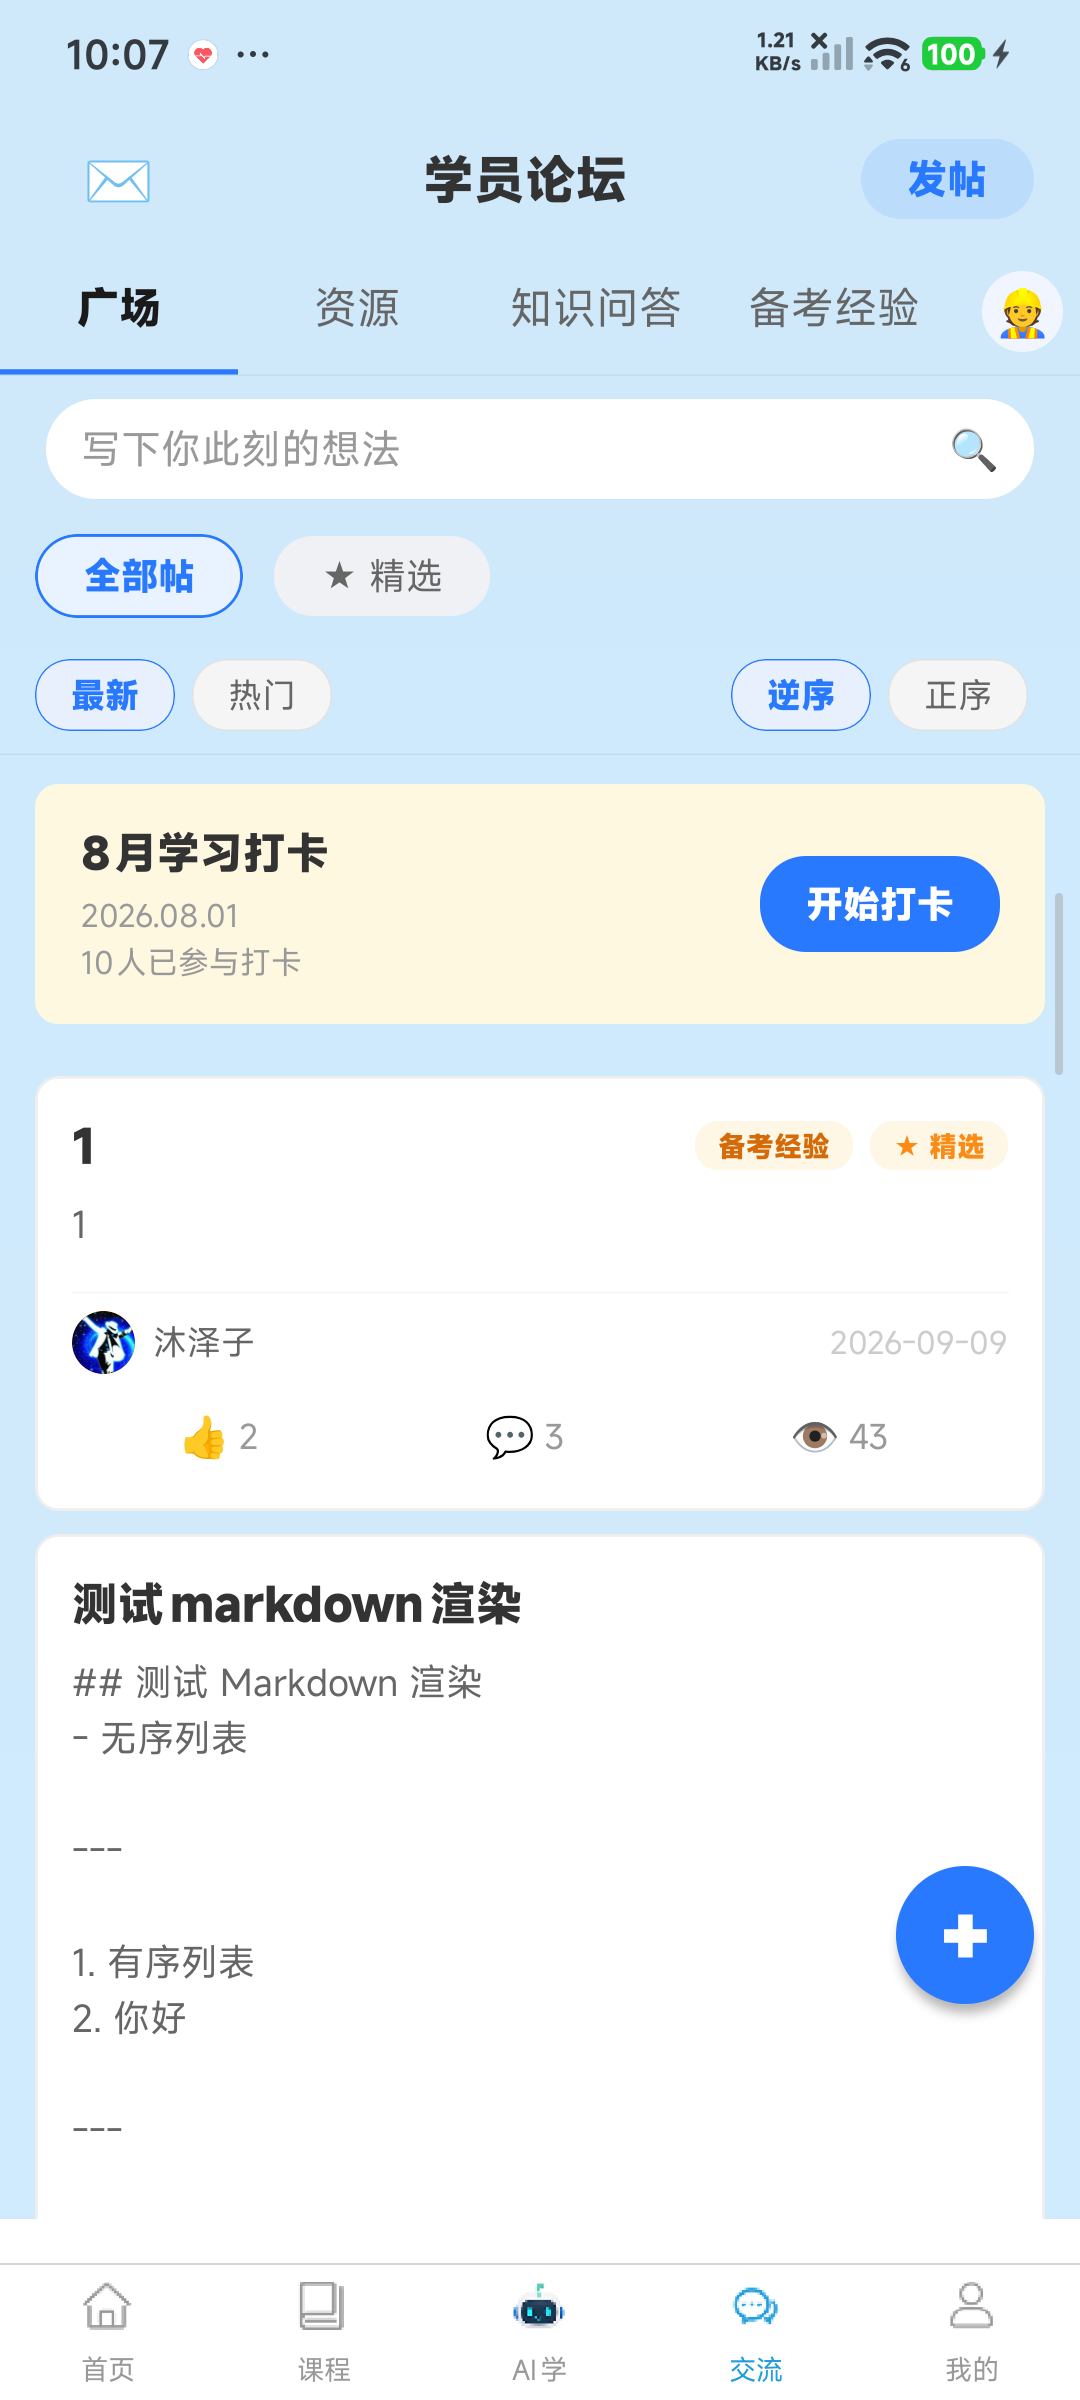
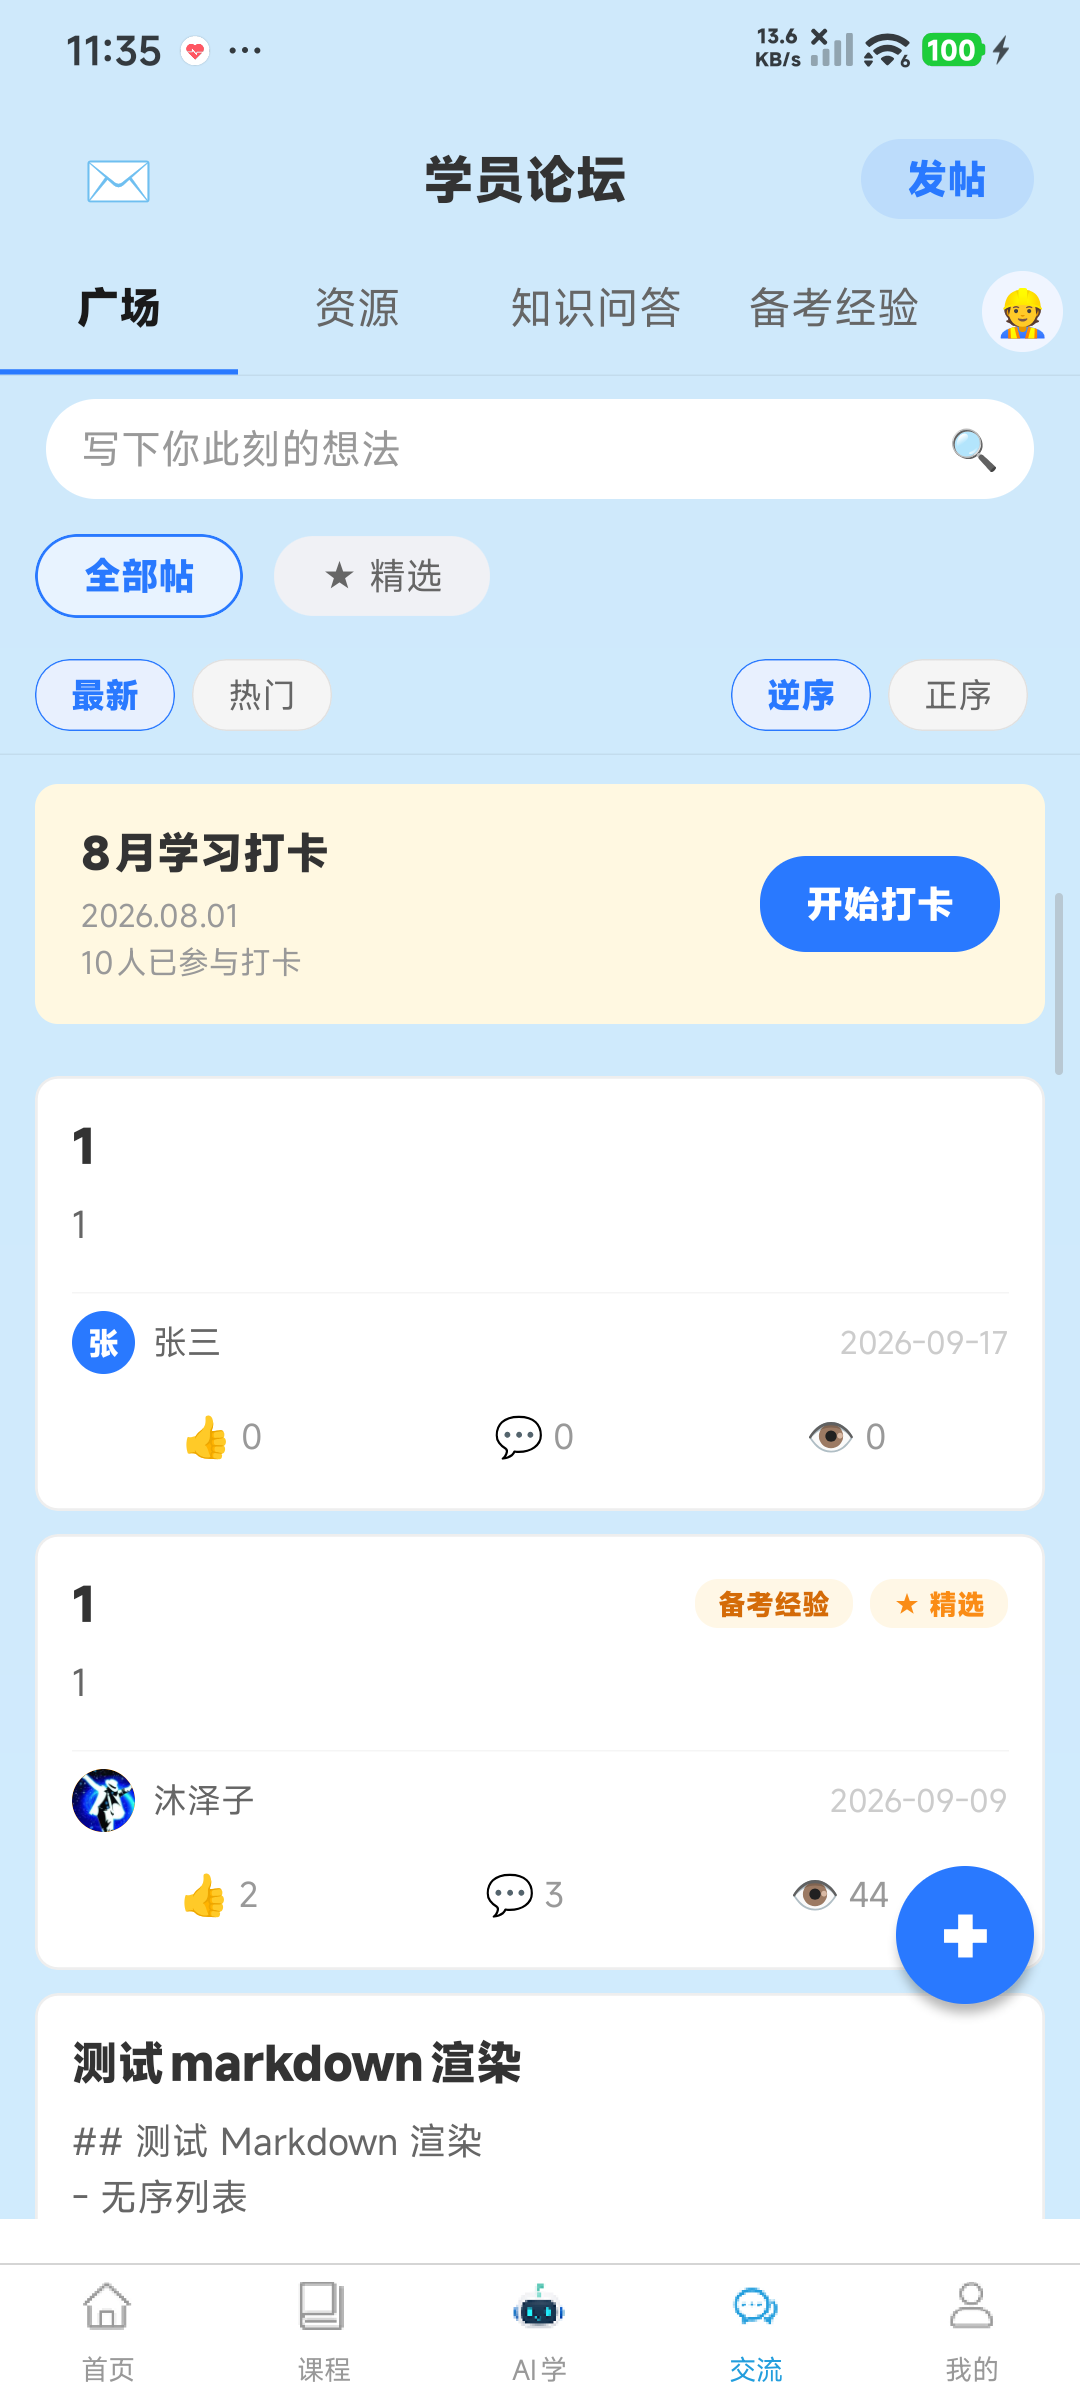
test(training-app): ①a 真机截图按 HEAD 重采入库（6 页 · 被验树 9f816b45）
## 为什么重采

首轮 5 张图摄于 `5b9d3c93`，而其后的提交又改了 `my-forum`（💬/👁）与 `forum-topic-header`
（💬 回复数）⇒ **图片与被验代码对不上**。按 ADR-0008「一次真机运行只反映一棵树」，全部在
**HEAD `9f816b45`** 重采，并补上帖子详情页（`forum-detail`）。

## 本次一并订正的两处取证错误（都记进同目录 README）

1. **`--pagePath` 的 query 键必须按页面 `onLoad` 的写法**：`course-detail.uvue` 读 `options['id']`
   （不是 `course_id`）。首轮传 `?course_id=8` ⇒ `id` 缺失、页面走空态 ⇒ 采到的是「没数据的
   课程详情」（77 KB）。改 `?id=8` 后 **209 KB**。
2. **参数化页面要先用真实数据确认参数可用**：`chapter_id=1` 实测后端 **404**
   （`章节不属于该课程`；课程 8 的真实章节是 **22–28**）⇒ 采到 15 KB 的错误空页。
   改 `chapter_id=22` 后 **470 KB**，且 `/api/course/8/chapter/22`、`/course/8`、
   `/course/8/progress` 均 **200**。

## 产物（`docs/verification/device/1075/`）

六个页面各一张，`--pagePath` 与页身份判据（该页特有请求）逐行列在 README：

| 图 | 大小 | 关键判据 |
| --- | --- | --- |
| `notifications.png` | 198 KB | `GET /api/notifications` |
| `forum.png` | 214 KB | 论坛列表 + 分类树 |
| `my-forum.png` | 748 KB | 我的帖子/回复（首轮 58 KB 为空态，本轮有内容） |
| `forum-detail.png` | 198 KB | `GET /api/forum/topics/15` |
| `course-detail.png` | 209 KB | `/course/8` + `/student/courses/8` + `/favorites/check` |
| `chapter-view.png` | 471 KB | `/course/8/chapter/22` + `/course/8` + `/course/8/progress` |

六张 SHA256 **互不相同** ⇒ 排除 ADR-0008 记录的「切页静默失效 ⇒ 多页同哈希」形态。

## 本产物仍未主张的事（README 同载）

- **无人目视核对图内容**：取证会话模型不支持读图，OCR / vision 端点均被额度挡回。
  本目录只记录「图在哪、怎么来、该页发出了哪些请求」，**不主张图里图标已正确显示** —— 须人复核。
- **章节附件类型图标本轮仍无法验证**：实测课程 8 的章节响应 **`file_url` 全为空、无 `files` 条目**
  ⇒ 章节学习页的「附件资料」区块无行可渲染。（响应里 7 处 `content_type: "document"` 是**章节自身**
[…]

diff --git a/training-app/叉车维修培训学员端跨端应用/docs/verification/device/1075/README.md b/training-app/叉车维修培训学员端跨端应用/docs/verification/device/1075/README.md
@@ -1,56 +1,77 @@
 # #1071 / PR #1075 —— ①a 真机逐页截图取证
 
-- **设备**：`b32d8398`（Xiaomi 23049RAD8C / `marble`），Android，adb `D:\android-sdk\platform-tools\adb.exe`
-- **构建**：分支 `fix/1071-icon-glyph-restore`（HEAD `0e748e04`），HBuilderX `cli launch app-android` 编译并下发
-  （设备侧凭证：`apps/__UNI__1C1D180` 目录 mtime 前进到 09:40；`Token validated, isLoggedIn=true`；后端 `200 /api/notifications`）
+- **设备**：`b32d8398`（Xiaomi 23049RAD8C / `marble`），adb `D:\android-sdk\platform-tools\adb.exe`
+- **构建**：分支 `fix/1071-icon-glyph-restore`，HBuilderX `cli launch app-android` 编译并下发
+  （设备侧凭证：`apps/__UNI__1C1D180` mtime 前进、`Token validated, isLoggedIn=true`、后端各接口 `200`）
 - **取图方式**：`adb exec-out screencap -p`（**只读**；未注入输入事件、未 kill 进程、未清 logcat）
-- **取图时间**：2026-09-17 09:58–10:33 +08:00
+
+> ⚠ **本轮取证走过的三处弯路，已订正（留痕以免后续会话重踩）**
+>
+> 1. **取图时刻必须等于被验证的树**：首轮五张图摄于 `5b9d3c93`，而其后提交又改了
+>    `my-forum`（💬/👁）与 `forum-topic-header`（💬 回复数）⇒ 图片与被验代码对不上。
+>    按 ADR-0008「一次真机运行只反映一棵树」，**已在 HEAD 重采全部页面**。
+> 2. **`cli launch --pagePath` 的 query 键必须按页面 `onLoad` 的取值写**：`course-detail.uvue`
+>    读的是 `options['id']`（**不是** `course_id`）。首轮传 `?course_id=8` ⇒ `id` 缺失 ⇒ 页面走空态，
+>    采到的是「没数据的课程详情」。已改用 `?id=8`（`forum-detail` 同为 `?id=<topicId>`）。
+> 3. **参数化页面要先用真实数据确认参数可用**：`chapter_id=1` 实测后端 **404**
+>    （`章节不属于该课程`，课程 8 的真实章节是 **22–28**）⇒ 采到 15 KB 的错误空页。
+>    已改用 `chapter_id=22` 重采。
 
 ## 为什么不用 `scripts/device-capture.ps1`
 
-其只读路径**只采当前前台那一页**，而它的切页分支在本机机械不可用（`input` 注入被系统硬拒；
-`uniapp://` deep link 实测让 App 抛未捕获异常退出）。本次改用本会话实测可用的路径：
-`cli launch app-android --project <abs> --deviceId <serial> --pagePath <path>` —— 它直接编译+下发+打开目标页。
-（此路径为 `scripts` 未采用的机制，**是否据此更换 ①a 的切页机制待维护者裁定**；本文件只记录事实。）
+其只读路径**只采当前前台那一页**，而切页分支在本机机械不可用（`input` 注入被系统硬拒；
+`uniapp://` deep link 实测让 App 抛未捕获异常退出）。故改用本会话实测的
+`cli launch app-android --pagePath <path>`（直接编译 + 下发 + 打开目标页）。
+**是否据此更换 ①a 的切页机制待维护者裁定** —— 本目录只记录事实，未改 `scripts/`。
 
-## 五张图与「页身份」判据
+## 页身份判据（为什么不用 `uiautomator`）
 
-页身份以 **logcat 的 `进入页面:` 行为准**（`uiautomator dump` 在本 App 上暴露不出文本节点：
-uniapp 渲染成单个 `ViewGroup`，`text` 全空，故无法用元素树判页）。
+本 App 用 uniapp 渲染，`uiautomator dump` 只暴露一个 `ViewGroup`、**所有 `text` 为空**
+⇒ 元素树判不出页面。故页身份以**该页 `onLoad` 会发出的 API 请求**为准（确定性）：
 
-| 文件 | 请求的 `--pagePath` | logcat `进入页面:` | 页身份 |
-| --- | --- | --- | --- |
-| `notifications.png` | `pages/notifications/notifications` | `pages/notifications/notifications` | ✅ 确认 |
-| `forum.png` | `pages/forum/forum` | `pages/forum/forum` | ✅ 确认 |
-| `my-forum.png` | `pages/forum/my-forum` | `pages/forum/my-forum` | ✅ 确认 |
-| `course-detail.png` | `pages/courses/course-detail?course_id=8` | 该次会话未捕获到对应行（见下「页身份存疑」） | ⚠ **存疑** |
-| `chapter-view.png` | `pages/courses/chapter-view?course_id=8&chapter_id=1` | 曾出现 `pages/courses/chapter-view?course_id=8&chapter_id=1`（证明 query 参数可传递），但取图邻域另见 `pages/courses/courses` | ⚠ **存疑** |
+| 文件 | 请求的 `--pagePath` | 判定依据（该页特有的请求） |
+| --- | --- | --- |
+| `notifications.png` | `pages/notifications/notifications` | `GET /api/notifications` |
+| `forum.png` | `pages/forum/forum` | 论坛列表接口 + 分类树 |
+| `my-forum.png` | `pages/forum/my-forum` | 我的帖子 / 我的回复接口 |
+| `forum-detail.png` | `pages/forum/forum-detail?id=15` | `GET /api/forum/topics/15`（**注意**：详情路由是 `/forum/topics/<id>`，不是 `/forum/topic/<id>`；后者 404） |
+| `course-detail.png` | `pages/courses/course-detail?id=8` | `GET /api/course/8` + `/student/courses/8` + `/favorites/check?target_type=course&target_id=8` |
+| `chapter-view.png` | `pages/courses/chapter-view?course_id=8&chapter_id=22` | `GET /api/course/8/chapter/22` + `/api/course/8` |
 
-**页身份存疑（如实记，不外推为"已确认"）**：对 `course-detail` / `chapter-view` 两页，取图时刻的
-logcat 邻域里同时出现 `pages/courses/courses`，无法确定截图落在目标页还是落了课程列表页。
-另有两点旁证支持「五张确实各不相同」：**五张 SHA256 互不相同**
-（`D6E7297E…` / `C565B7EC…` / `A871C96C…` / `B376CE6D…` / `A2CB4B6F…`），
-且字节数不同 —— 这排除了 ADR-0008 记录的「切页静默失效 ⇒ 多页同哈希」形态。
+⚠ **`chapter_id` 必须取真实存在的章节**：课程 8 的章节 id 是 **22–28**（不是 1）。
+首次用 `chapter_id=1` 实测后端返回 **404**（`章节不属于该课程`）⇒ 采到的是错误空页（15 KB），已重采。
+（这条也是本目录第 3 条弯路：**参数化页面要先用真实数据确认参数可用**，否则「图有了」其实什么都没验到。）
 
-## 本文件**未**主张的事（重要）
+六张 PNG 的 SHA256 互不相同 ⇒ 排除 ADR-0008 记录的「切页静默失效 ⇒ 多页同哈希」形态。
+**页身份均可由上表的该页特有请求确认**（不再有存疑页）。
 
-1. **未做目视核对**：本次取证会话所用模型不支持读图，且 OCR / vision 问答两条端点均被
-   「未充值只能试 10 次」挡回 ⇒ **没有任何人（或 agent）看过这五张图的内容**。
-   本文件只记录「图在哪、怎么来的、logcat 说打开了哪一页」，**不主张图里图标已正确显示**。
-2. **未覆盖「课程详情封面大图标随分类变化」**：后端已退役课程 `category` 字段
-   （`CourseDTO` 无该字段，`api/course.uts:39` 的 `toStr(obj['category'])` 恒为 `''`），
-   `getCategoryIcon` 的分类分支**在真实数据下不可达**，该页固定走默认分支（📚）。
-   即：该页属于「字形已修好、但真机上本就看不出差别」，本条验收目标的达成需要**另立票**
-   （改用真实字段 `specialty_id` / `level_id` 驱动分类图标）。
-3. **未覆盖 ①b 能力面**：本票未命中能力面（无指纹 / 运行时权限弹窗 / 真机上传 / 厂商 ROM 交互），按 ADR-0008 免。
+## 本目录**未**主张的事（重要）
 
-## 请人复核（①a/①b 的判据在人）
+1. **本会话没有人目视核对过图内容**：取证会话所用模型不支持读图，OCR 与 vision 问答两条端点
+   均被「未充值只能试 10 次」挡回。本目录只记录「图在哪、怎么来、该页发出了哪些请求」，
+   **不主张图里图标已正确显示** —— 这一步必须由人打开图确认。
+2. **章节附件类型图标（🎬 📄 📊 🖼 📎）本轮无法目视验证**：实测 `course_id=8` 的章节详情里
+   **`file_url` 全为空、响应中也没有 `files` 条目** ⇒ 章节学习页的「附件资料」区块**无行可渲染**。
+   （注意区分：响应里 7 处 `content_type: "document"` 是**章节自身**的记录，不是附件。）
+   要验证这一族，需挑一门**章节挂了附件**的课，或造一条附件数据。
+3. **课程详情封面大图标本就验不出差别**：后端已退役课程 `category`（`CourseDTO` 无该字段，
+   `api/course.uts:39` 的 `toStr(obj['category'])` 恒为 `''`）⇒ `getCategoryIcon` 的 9 个分类分支
+   **在真实数据下不可达**，该页固定走默认分支（📚）。此点已另立 **#1087**。
+   旁证：`course-detail.png` 的封面底色取色为 `#E8F4FD`，正落在 `getCoverColor` 的**默认分支**
+   （`#e3f2fd` 一族）—— 与「category 恒空」的结论一致。
+4. **未覆盖 ①b 能力面**：本票未命中能力面（无指纹 / 运行时权限弹窗 / 真机上传 / 厂商 ROM 交互），按 ADR-0008 免。
 
-打开上面五张 PNG，逐页确认：
+## 请人复核清单（① 的判据在人）
 
-- `notifications.png`：通知条目的**类型图标**（💬 🚩 🗑 📝 🔔 之一）是否显示为**彩色字形**（非空白方块、非豆腐块）；空态是否为 🔔
-- `forum.png` / `my-forum.png`：空态图标是否为 💬；论坛卡片操作栏的评论/浏览图标是否为 💬 / 👁
-- `course-detail.png`：封面大图标是否为 📚（**预期就是 📚**，见上「未主张」第 2 条）
-- `chapter-view.png`：若有「附件资料」区块，每行左侧类型图标是否为 🎬 / 📄 / 📊 / 🖼 / 📎（取决于该章是否有附件）
+逐张打开确认（重点看**图标字形是否真的画出来了**）：
 
-若某码位在真机渲染为豆腐块，按 ADR-0007 先例只改该处字面量即可（守护测试不钉死具体码位）。
+| 图 | 看什么 | 对应 #1071 的哪一处 |
+| --- | --- | --- |
+| `notifications.png` | 通知条目左侧类型图标（💬 🚩 🗑 📝 🔔 之一）；列表为空时看空态 🔔 | `getTypeIcon` 6 分支 + 空态 |
+| `forum.png` | 列表为空时看空态 💬；卡片操作栏的 💬 / 👁 | 空态 + `action-icon` |
+| `forum-detail.png` | 统计行是否为 `♥/♡ 赞数 · ☆/★ 收藏 · 💬 回复数 · 👁 浏览数` | 本轮新增的 💬 回复数 + 补回的 👁 |
+| `my-forum.png` | 计数行是否为 `❤ 赞 · 💬 回复 · 👁 浏览` | 本轮补的 💬/👁 |
+| `course-detail.png` | 封面大图标应为 **📚**（预期就是默认，见「未主张 3」） | 不可达分支（另见 #1087） |
+| `chapter-view.png` | **预期看不到附件图标**（该课无附件，见「未主张 2」）；可看章节正文/导航是否正常 | 本轮无法覆盖 |
+
+若某码位在真机渲染为豆腐块，按 ADR-0007 先例**只改该处字面量**（守护测试不钉死具体码位，无需改测试）。
